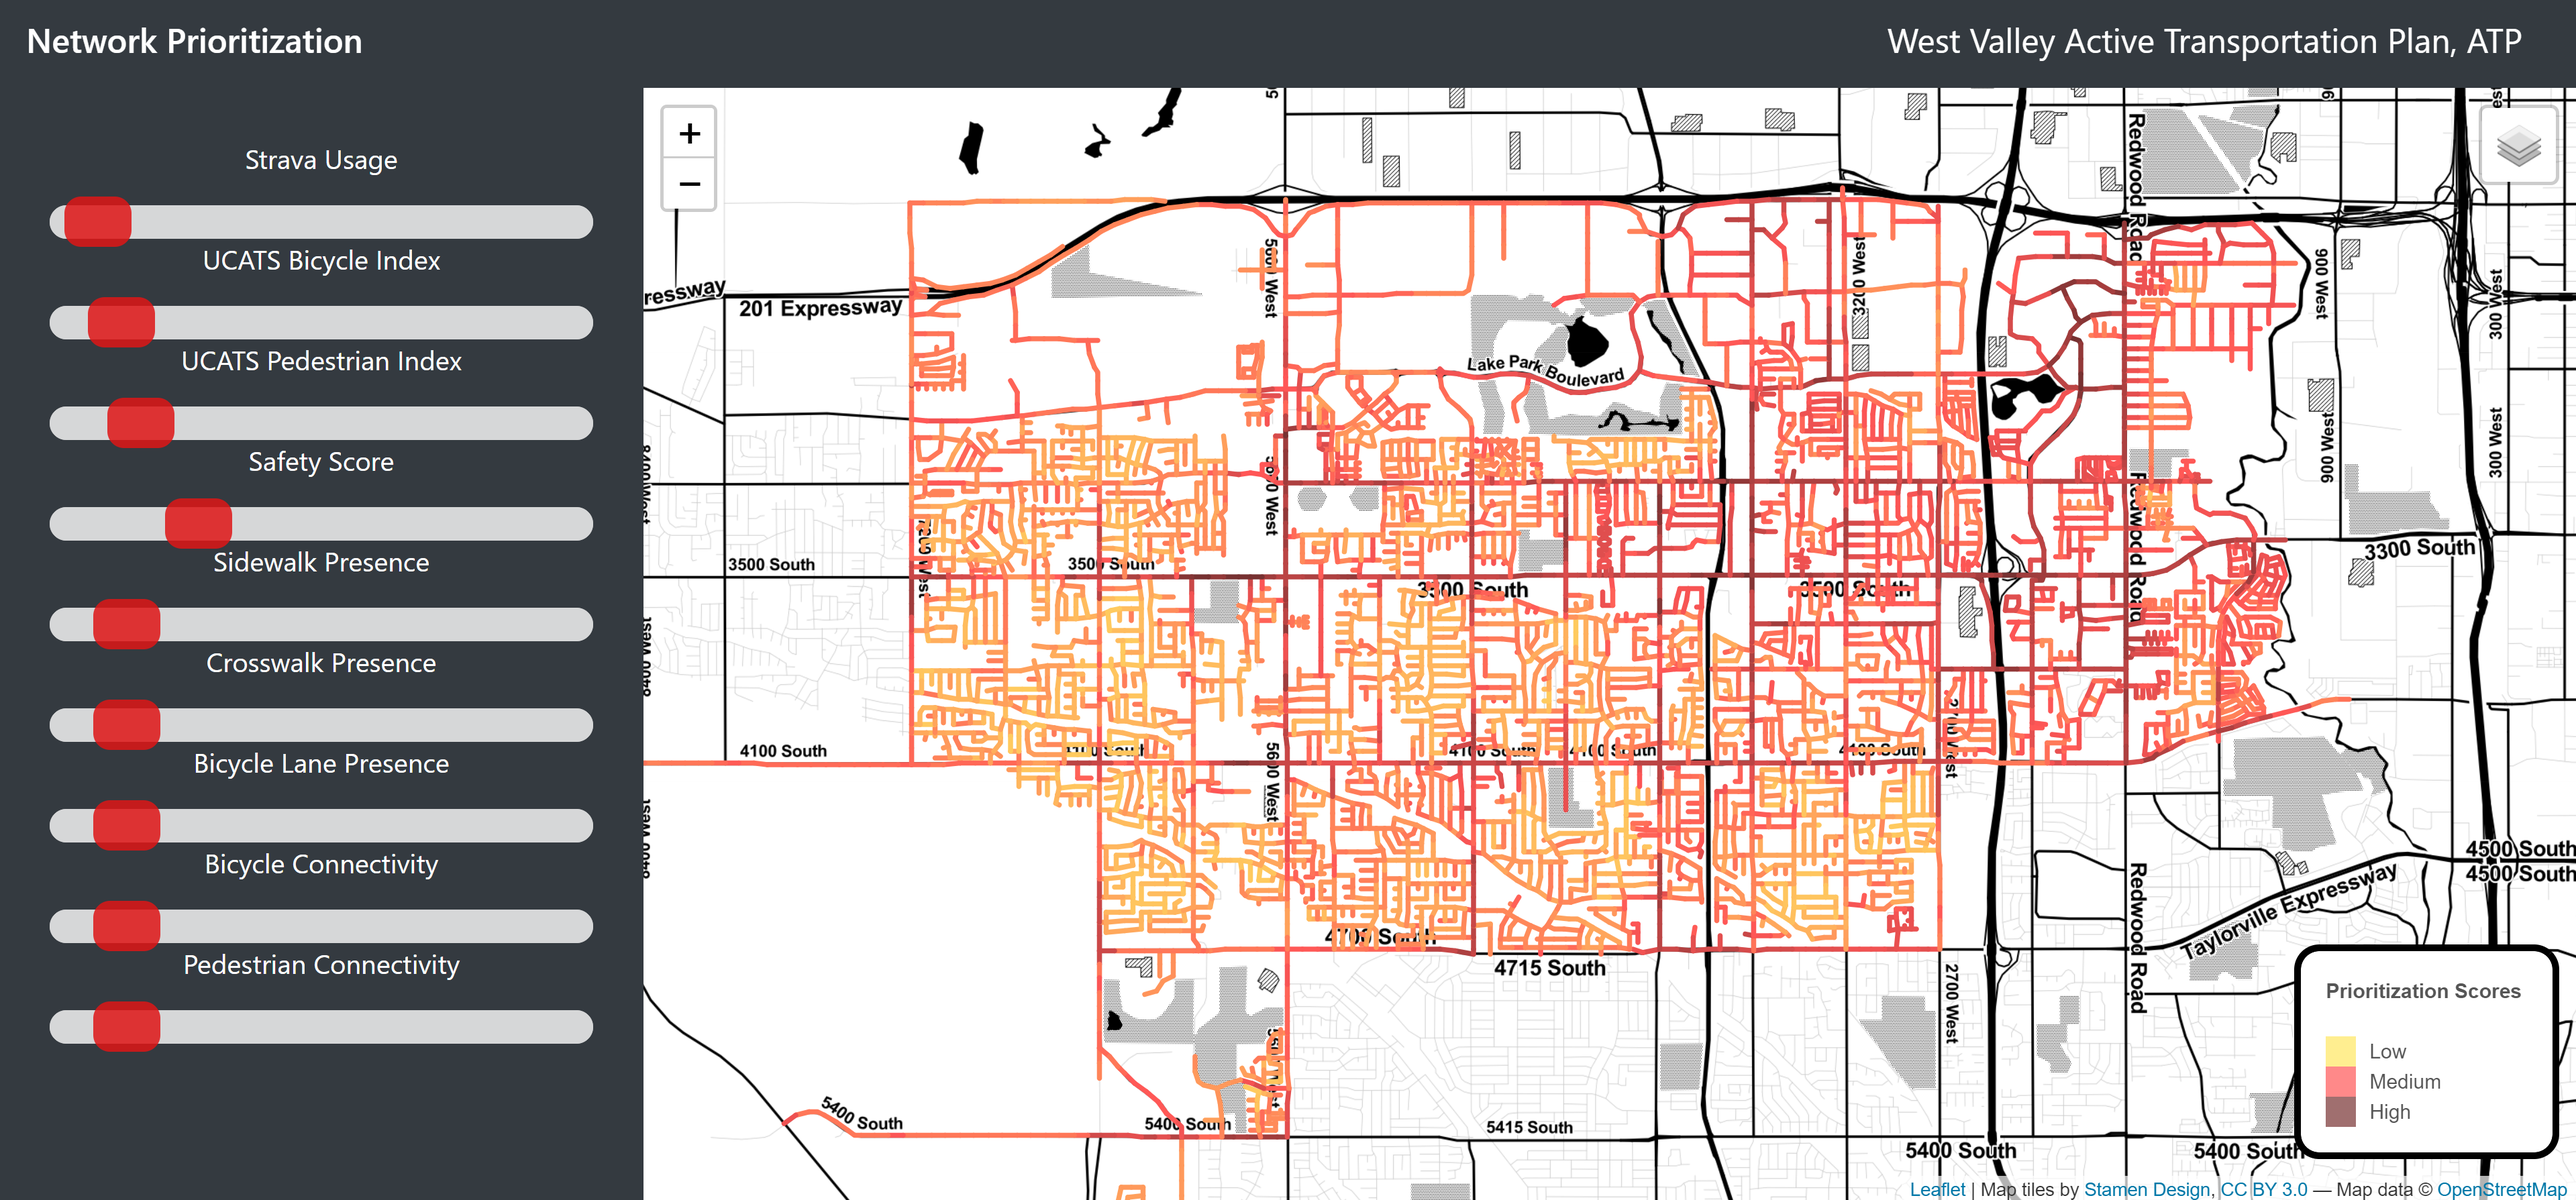
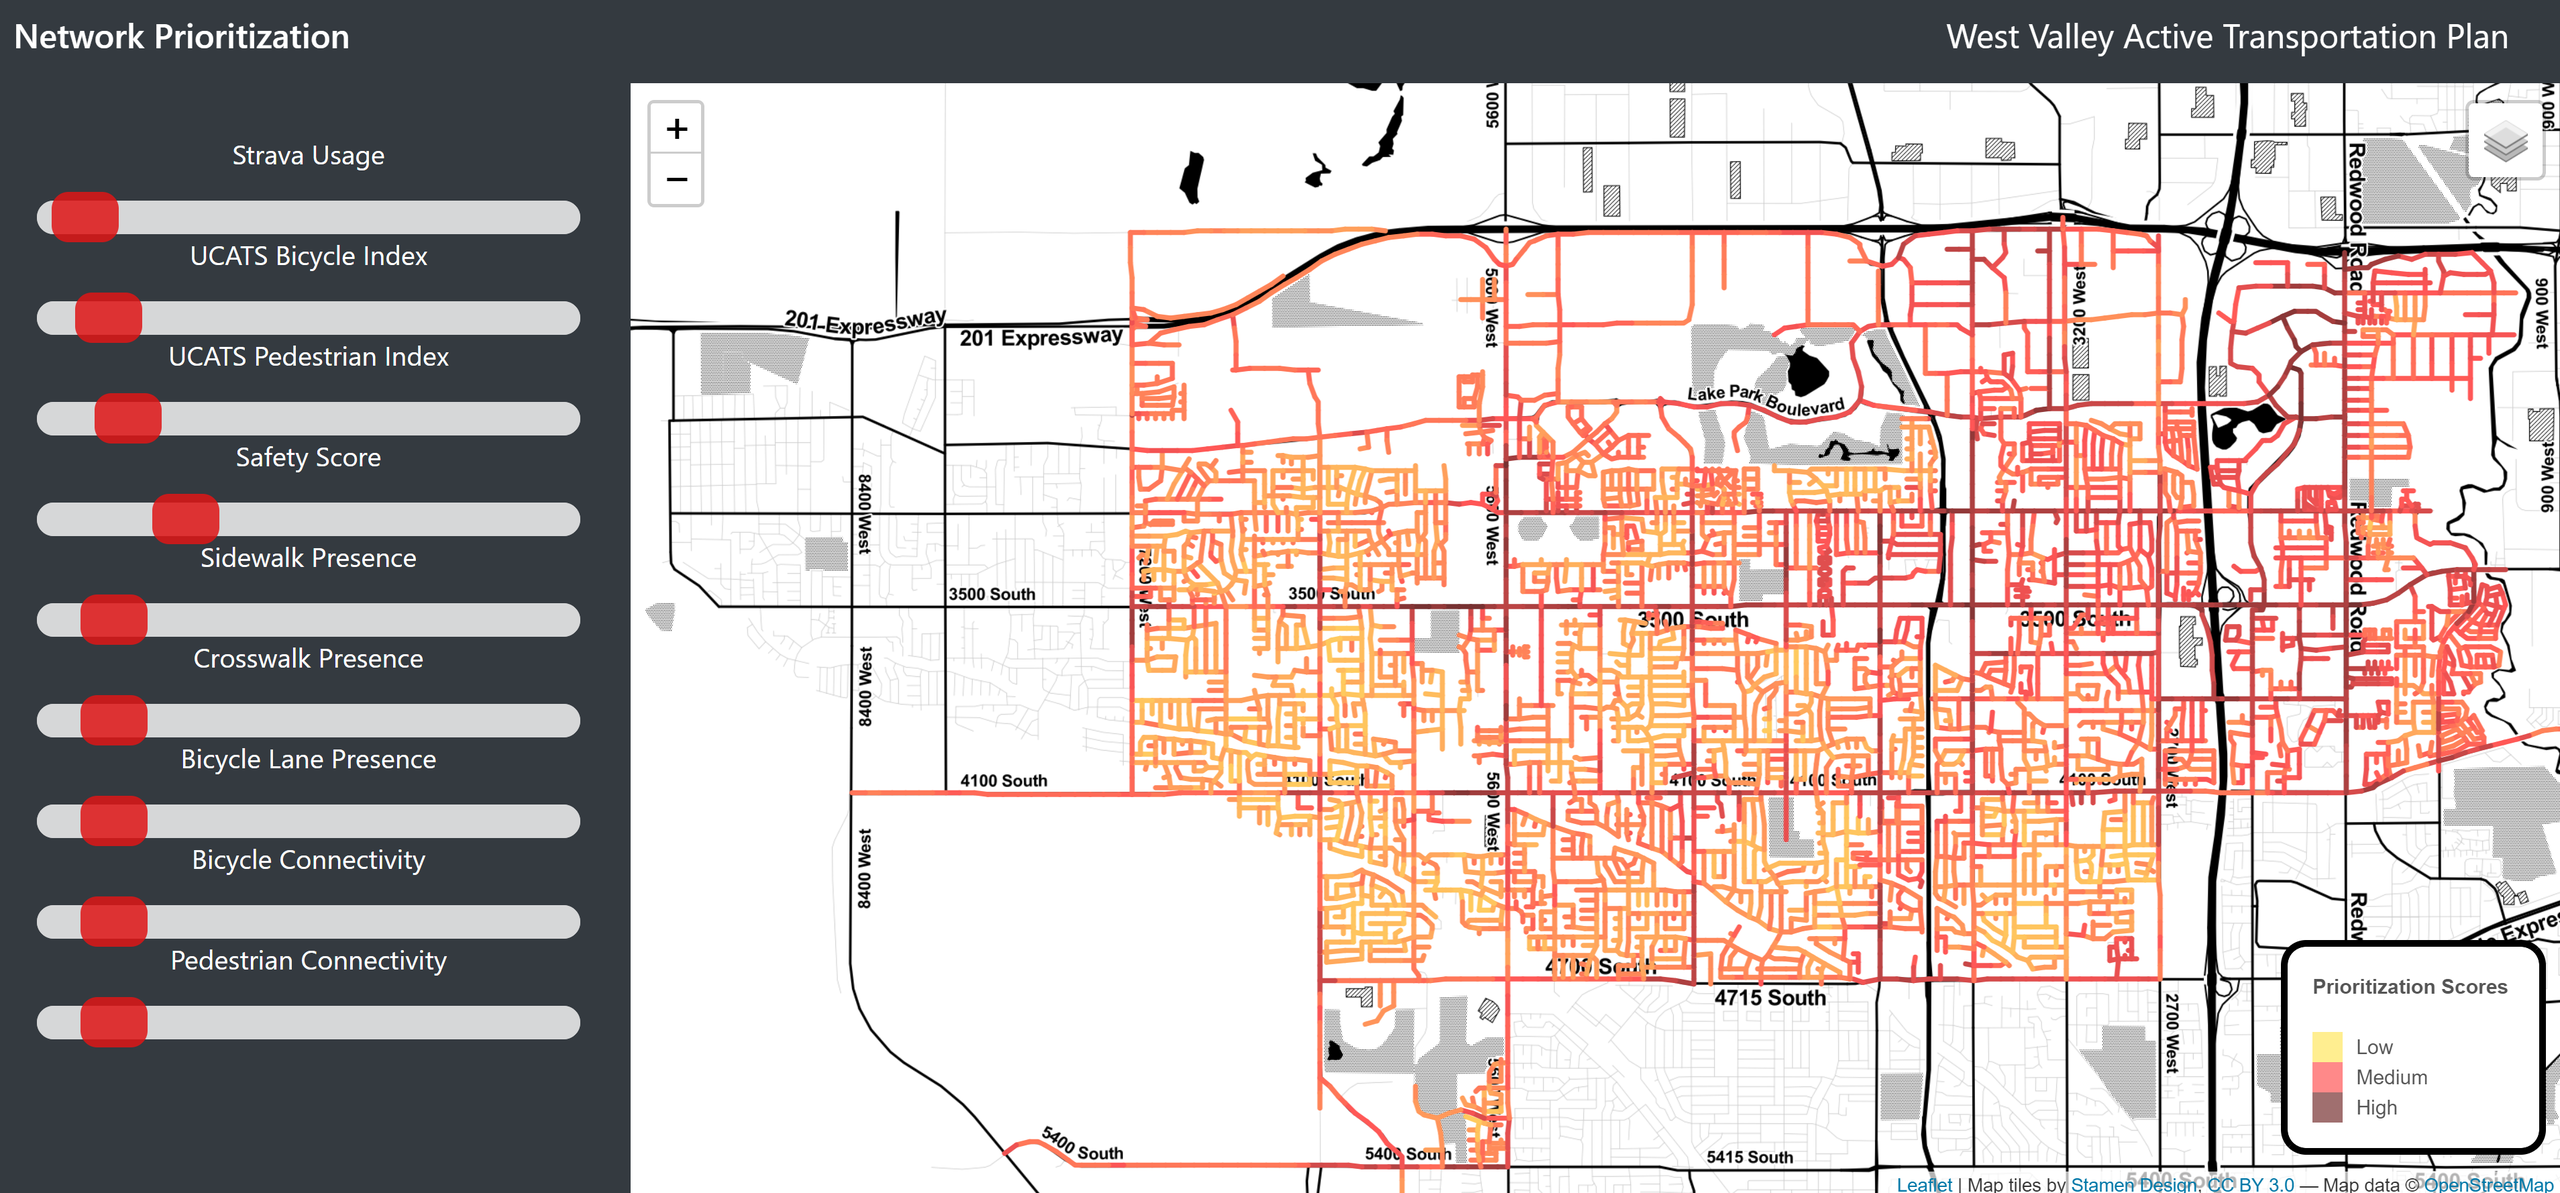
Readme + HTML update
Updated HTML and readme image to not have ATP in the text.

diff --git a/templates/index.html b/templates/index.html
@@ -21,7 +21,7 @@
 <body>
     <nav class="navbar navbar-dark bg-dark">
         <a class="navbar-brand mb-0 h1" href="#">Network Prioritization</a>
-        <a class="navbar-brand mb-0 p" href="#">West Valley Active Transportation Plan, ATP</a>
+        <a class="navbar-brand mb-0 p" href="#">West Valley Active Transportation Plan</a>
     </nav>
     
     <nav class="sidebar-nav navbar-dark bg-dark">
